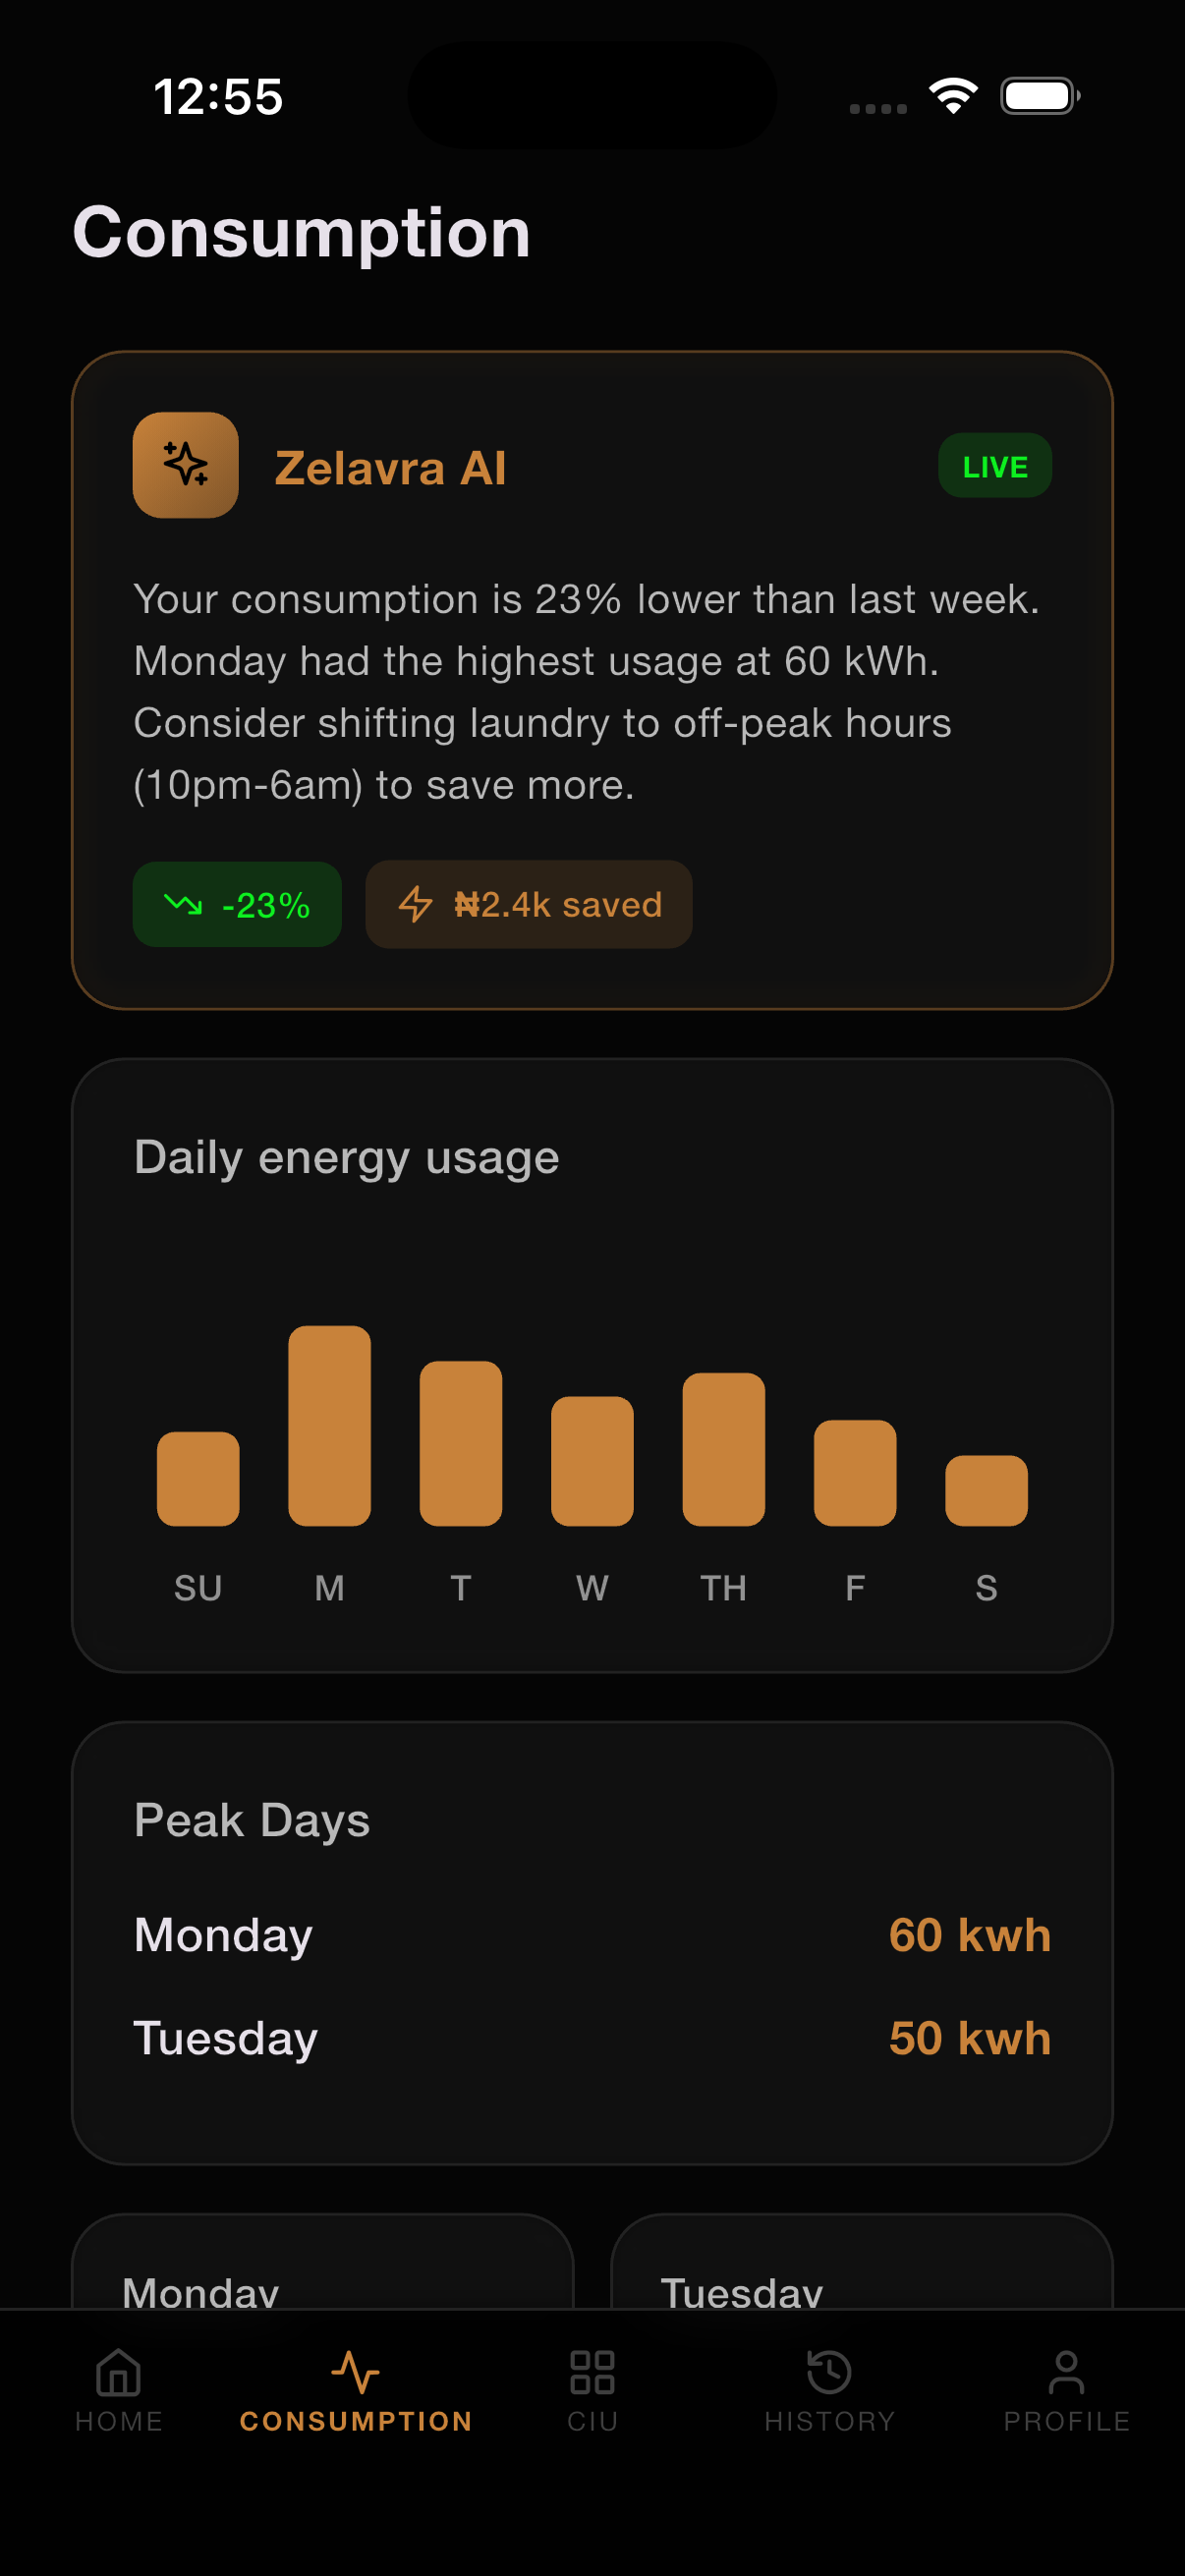
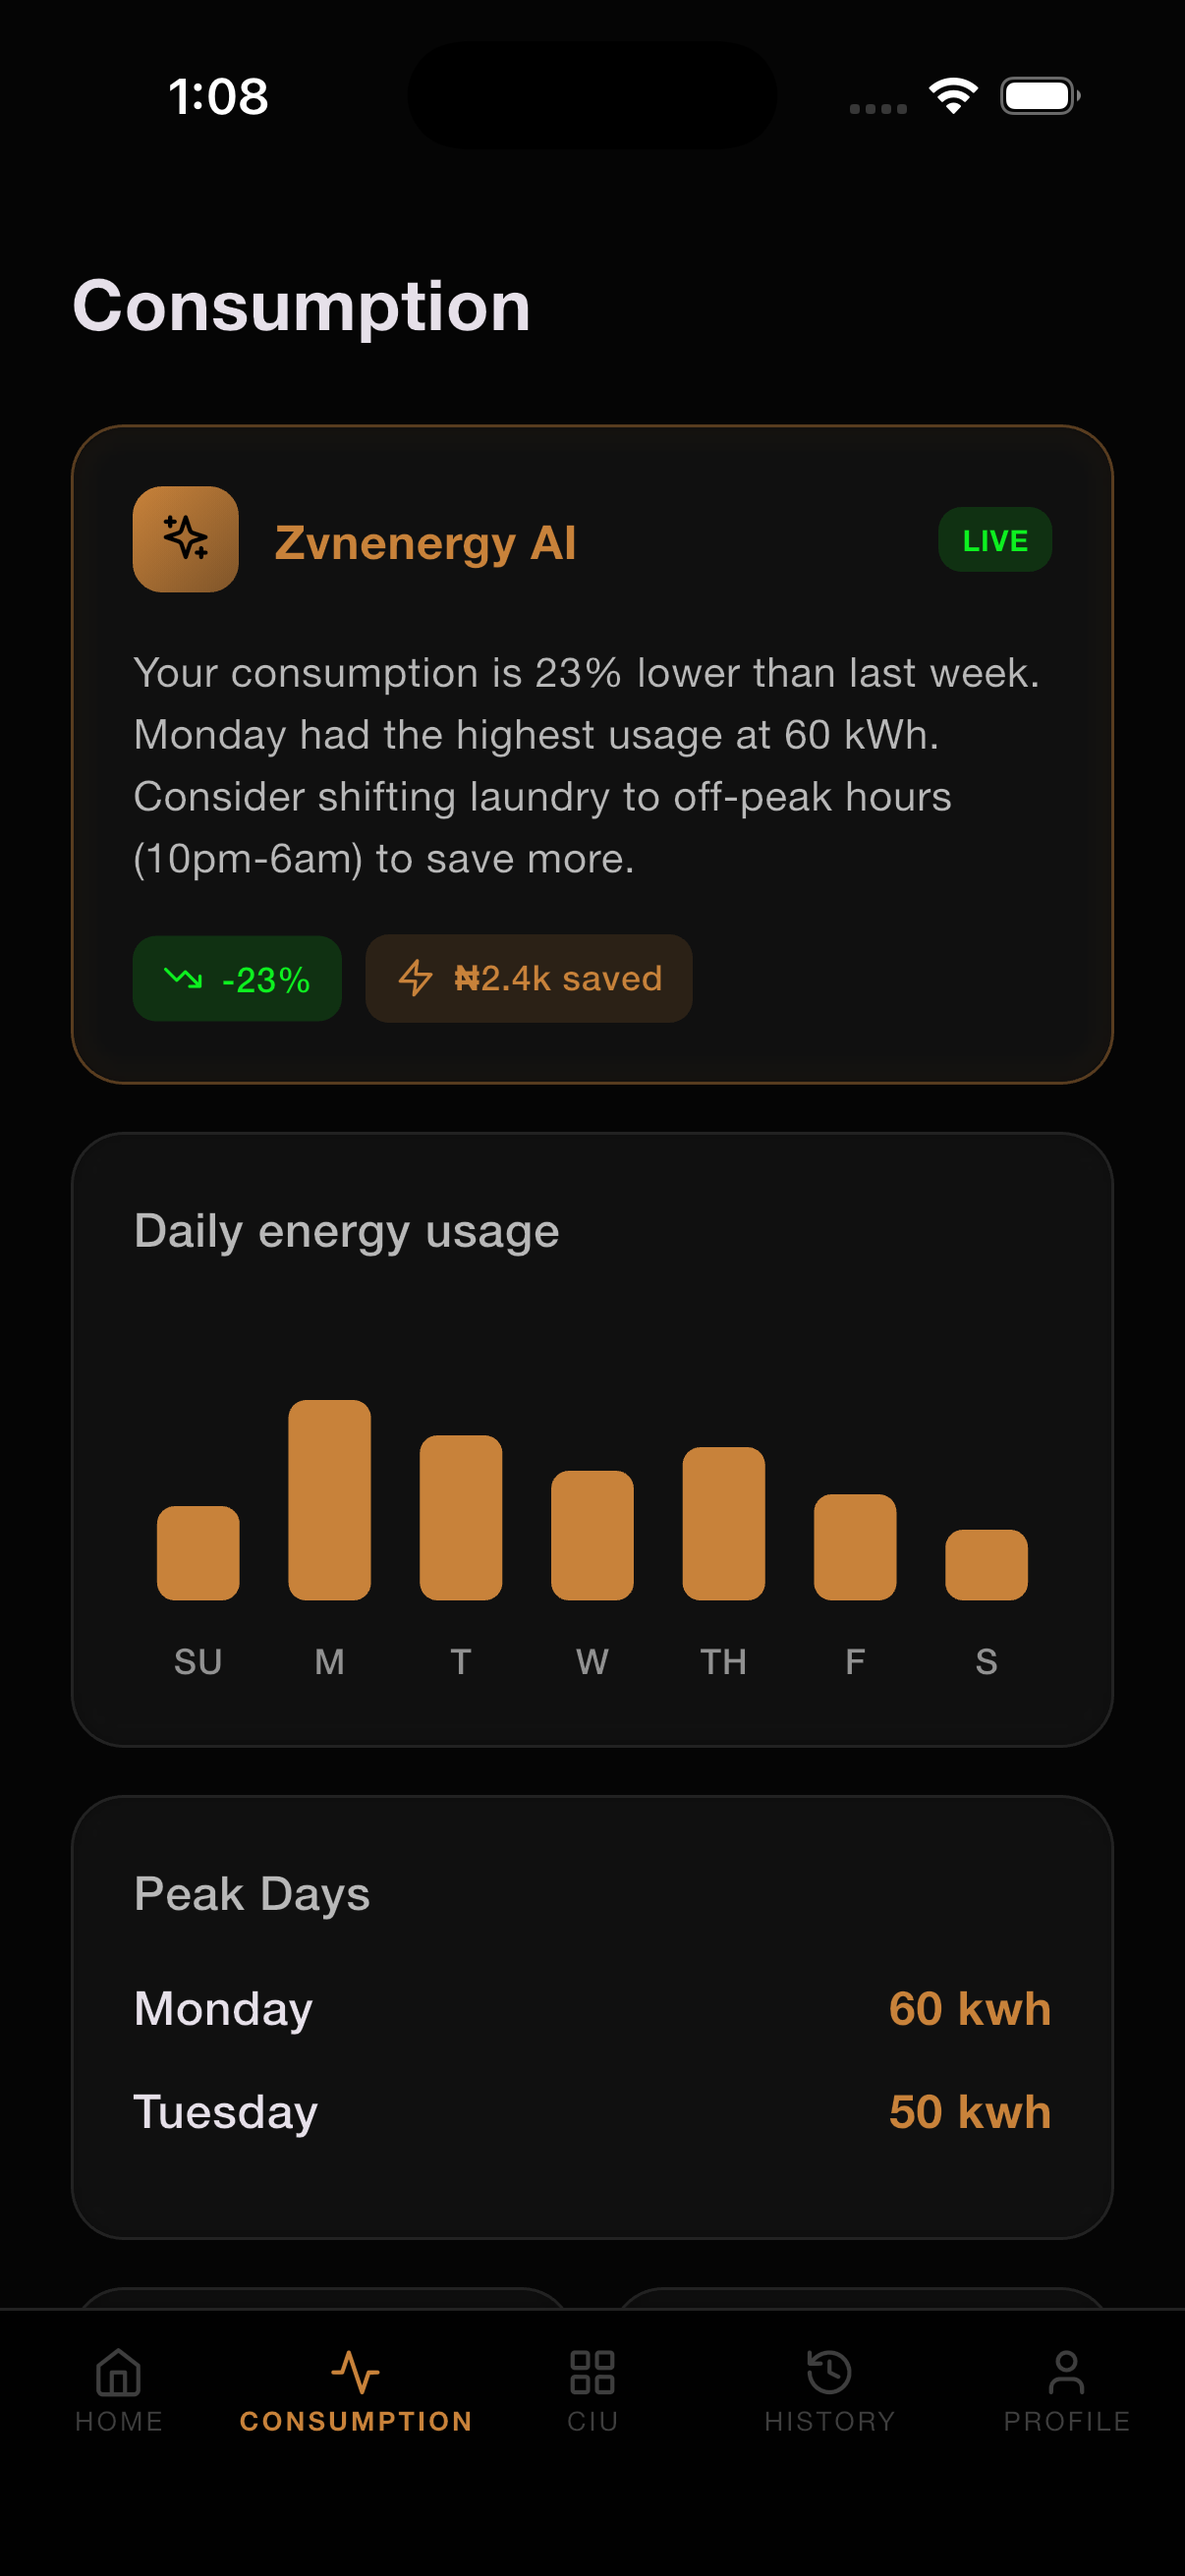
fix: v1

diff --git a/index.html b/index.html
@@ -2,27 +2,27 @@
 <html lang="en">
   <head>
     <meta charset="UTF-8" />
-    <link rel="icon" type="image/svg+xml" href="/zvn_logo.svg" />
+    <link rel="icon" type="image/svg+xml" href="/zvn.png" />
     <meta name="viewport" content="width=device-width, initial-scale=1.0" />
 
-    <title>zvnenergy</title>
+    <title>zievon energy</title>
 
     <!-- Structured Data for SEO: Organization Logo -->
     <script type="application/ld+json">
-    {
-      "@context": "https://schema.org",
-      "@type": "Organization",
-      "name": "zvnenergy",
-      "url": "https://zvnenergy.com/",
-      "logo": "https://zvnenergy.com/zvn_logo.svg"
-    }
+      {
+        "@context": "https://schema.org",
+        "@type": "Organization",
+        "name": "zievon energy",
+        "url": "https://zvnenergy.com/",
+        "logo": "https://zvnenergy.com/zvn.png"
+      }
     </script>
 
     <!-- Primary Meta Tags -->
-    <meta name="title" content="zvnenergy" />
+    <meta name="title" content="zievon energy" />
     <meta
       name="description"
-      content="Everything Energy. Everything Payments. One App. zvnenergy connects electricity distribution, smart metering, and digital payments for Nigerians."
+      content="Everything Energy. Everything Payments. One App. zievon energy connects electricity distribution, smart metering, and digital payments for Nigerians."
     />
     <meta
       name="keywords"
@@ -34,30 +34,28 @@
     <!-- Open Graph / Facebook -->
     <meta property="og:type" content="website" />
     <meta property="og:url" content="https://zvnenergy.com/" />
-    <meta property="og:title" content="zvnenergy" />
+    <meta property="og:title" content="zievon energy" />
     <meta
       property="og:description"
-      content="Everything Energy. Everything Payments. One App. zvnenergy connects electricity distribution, smart metering, and digital payments for Nigerians."
+      content="Everything Energy. Everything Payments. One App. zievon energy connects electricity distribution, smart metering, and digital payments for Nigerians."
     />
-    <meta property="og:image" content="https://zvnenergy.com/zvnenergylogo.png" />
-    <meta property="og:image:secure_url" content="https://zvnenergy.com/zvnenergylogo.png" />
-    <meta property="og:image:type" content="image/png" />
-    <meta property="og:image:width" content="1200" />
-    <meta property="og:image:height" content="630" />
-    <meta property="og:image:alt" content="zvnenergy Logo" />
-    <meta property="og:site_name" content="zvnenergy" />
+    <meta property="og:image" content="https://zvnenergy.com/zvn.png" />
+    <meta property="og:image:secure_url" content="https://zvnenergy.com/zvn.png" />
+    <meta property="og:image:type" content="image/svg+xml" />
+    <meta property="og:image:alt" content="zievon energy Logo" />
+    <meta property="og:site_name" content="zievon energy" />
     <meta property="og:locale" content="en_US" />
 
     <!-- Twitter -->
     <meta name="twitter:card" content="summary_large_image" />
     <meta name="twitter:url" content="https://zvnenergy.com/" />
-    <meta name="twitter:title" content="zvnenergy" />
+    <meta name="twitter:title" content="zievon energy" />
     <meta
       name="twitter:description"
-      content="Everything Energy. Everything Payments. One App. zvnenergy connects electricity distribution, smart metering, and digital payments for Nigerians."
+      content="Everything Energy. Everything Payments. One App. zievon energy connects electricity distribution, smart metering, and digital payments for Nigerians."
     />
-    <meta name="twitter:image" content="https://zvnenergy.com/zvnenergylogo.png" />
-    <meta name="twitter:image:alt" content="zvnenergy Logo" />
+    <meta name="twitter:image" content="https://zvnenergy.com/zvn.png" />
+    <meta name="twitter:image:alt" content="zievon energy Logo" />
 
     <!-- Additional Meta Tags -->
     <meta name="theme-color" content="#c8823a" />
@@ -68,6 +66,10 @@
     <link rel="preconnect" href="https://fonts.gstatic.com" crossorigin />
     <link
       href="https://fonts.googleapis.com/css2?family=Inter:wght@100..900&display=swap"
+      rel="stylesheet"
+    />
+    <link
+      href="https://fonts.googleapis.com/css2?family=Space+Grotesk:wght@400;500;600;700&display=swap"
       rel="stylesheet"
     />
     <link rel="preconnect" href="https://cdn.jsdelivr.net" />

diff --git a/src/views/HomeView.vue b/src/views/HomeView.vue
@@ -20,7 +20,7 @@ const reviews = [
     name: 'Sarah Alabi',
     role: 'Business Owner',
     content:
-      'zvnenergy AI helped me identify that my industrial fridge was consuming 30% more power than it should. Saved me thousands in the first month.',
+      'zievon energy AI helped me identify that my industrial fridge was consuming 30% more power than it should. Saved me thousands in the first month.',
     avatar: 'SA',
   },
   {
@@ -42,11 +42,11 @@ const reviews = [
 const faqs = [
   {
     q: 'Is the app free to use?',
-    a: 'Yes, the zvnenergy app is free to download and use for monitoring. Premium features like zvnenergy AI analytics are included with our hardware bundles.',
+    a: 'Yes, the zievon energy app is free to download and use for monitoring. Premium features like zievon energy AI analytics are included with our hardware bundles.',
   },
   {
     q: 'Can I use it with any meter?',
-    a: 'zvnenergy supports most modern prepaid meters. For full automation and remote control, we recommend the zvnenergy Smart Meter hardware.',
+    a: 'zievon energy supports most modern prepaid meters. For full automation and remote control, we recommend the zievon energy Smart Meter hardware.',
   },
   {
     q: 'How secure are my payments?',
@@ -143,7 +143,7 @@ const faqs = [
             Everything at a Glance.
           </h2>
           <p class="text-neutral-400 text-lg font-light leading-relaxed">
-            The zvnenergy Dashboard provides a unified view of your entire energy ecosystem. Monitor
+            The zievon energy Dashboard provides a unified view of your entire energy ecosystem. Monitor
             your kWh balance in real-time, track historical consumption patterns, and manage
             multiple meters from a single, intuitive interface.
           </p>
@@ -164,7 +164,7 @@ const faqs = [
             <img
               src="/home1.png"
               class="w-full h-full object-cover"
-              alt="zvnenergy Dashboard Overview"
+              alt="zievon energy Dashboard Overview"
             />
           </div>
         </div>
@@ -191,8 +191,8 @@ const faqs = [
           </h2>
           <p class="text-neutral-400 text-lg font-light leading-relaxed">
             Adding a new meter to your account is as simple as scanning a QR code or entering your
-            meter number. Whether it's your main residence, office, or a rental property, zvnenergy
-            organizes them into a single manageable list.
+            meter number. Whether it's your main residence, office, or a rental property, zievon
+            energy organizes them into a single manageable list.
           </p>
           <ul class="flex flex-col gap-4 mt-2">
             <li class="flex items-center gap-3 text-neutral-300 text-sm">
@@ -207,7 +207,7 @@ const faqs = [
         </div>
       </section>
 
-      <!-- User Journey: Section 3 - Calculator -->
+      <!-- User Journey: Section 3 - Intelligent Monitoring.Calculator -->
       <section
         class="w-full max-w-7xl px-6 mb-48 grid grid-cols-1 md:grid-cols-2 gap-16 items-center"
       >
@@ -262,7 +262,7 @@ const faqs = [
               <img
                 src="/zvnenergy_share.png"
                 class="w-full h-full object-cover"
-                alt="zvnenergy Share confirmation"
+                alt="zievon energy Share confirmation"
               />
             </div>
           </div>
@@ -275,7 +275,7 @@ const faqs = [
             Energy for Everyone.
           </h2>
           <p class="text-neutral-400 text-lg font-light leading-relaxed">
-            zvnenergy Share allows you to distribute energy units across your family, business, or
+            zievon energy Share allows you to distribute energy units across your family, business, or
             rental meters in seconds. Transferring units is as simple and secure as sending money.
           </p>
           <div class="flex flex-col gap-4">
@@ -366,7 +366,7 @@ const faqs = [
             <img
               src="/consumption.png"
               class="w-full h-full object-cover"
-              alt="zvnenergy AI Consumption Monitoring"
+              alt="zievon energy AI Consumption Monitoring"
             />
           </div>
         </div>
@@ -378,7 +378,7 @@ const faqs = [
             Intelligent Monitoring.
           </h2>
           <p class="text-neutral-400 text-lg font-light leading-relaxed">
-            Introducing our first proprietary model: <strong>zvnenergy AI</strong>. Specifically
+            Introducing our first proprietary model: <strong>zievon energy AI</strong>. Specifically
             engineered to monitor your electricity consumption, it analyzes your usage patterns to
             help you optimize energy costs and detect anomalies before they become expensive
             problems.
@@ -401,7 +401,7 @@ const faqs = [
             >User Stories</span
           >
           <h2 class="text-4xl md:text-5xl font-medium text-white tracking-tight">
-            Voices of zvnenergy.
+            Voices of zievon energy.
           </h2>
         </div>
         <div class="grid grid-cols-1 md:grid-cols-2 lg:grid-cols-4 gap-6">
@@ -463,7 +463,7 @@ const faqs = [
               We're here to help.
             </h2>
             <p class="text-neutral-400 text-lg font-light leading-relaxed max-w-md">
-              Have questions about your meter, the app, or zvnenergy AI? Our support team is
+              Have questions about your meter, the app, or zievon energy AI? Our support team is
               available 24/7 to ensure your power remains uninterrupted.
             </p>
             <div class="flex flex-col gap-6 mt-4">

diff --git a/src/components/layout/Navigation.vue b/src/components/layout/Navigation.vue
@@ -27,15 +27,26 @@ const scrollToSection = (id: string) => {
     <a
       href="#home"
       @click.prevent="scrollToSection('#home')"
-      class="flex items-center z-[70] group relative"
+      class="flex items-center z-[70] group relative gap-3"
     >
-      <img
-        src="/zvn_logo.svg"
-        alt="zvnenergy logo"
-        class="h-8 w-auto mr-2"
-        style="display:inline-block;vertical-align:middle;"
-      />
-      <span class="text-lg font-bold text-white tracking-tight group-hover:text-neutral-400 transition-colors ml-2">zvnenergy</span>
+      <div class="flex items-center gap-3">
+        <img
+          src="/zvn.png"
+          alt="zievon energy logo"
+          class="h-12 md:h-14 w-auto object-contain"
+          style="display: inline-block; vertical-align: middle"
+        />
+        <div class="flex flex-col leading-none">
+          <span
+            class="text-[1.3rem] md:text-[1.5rem] font-extrabold tracking-[0.35em] text-white font-brand"
+            >ZVN</span
+          >
+          <span
+            class="text-[0.65rem] md:text-[0.7rem] font-semibold tracking-[0.3em] text-neutral-400 font-brand word-spaced"
+            >ZIEVON ENERGY</span
+          >
+        </div>
+      </div>
     </a>
 
     <!-- Centered Links (Desktop) -->

diff --git a/src/components/layout/Footer.vue b/src/components/layout/Footer.vue
@@ -11,8 +11,25 @@ const scrollToSection = (id: string) => {
   <footer class="w-full pt-24 pb-12 flex flex-col gap-16 border-t border-white/5 mt-24">
     <div class="grid grid-cols-2 md:grid-cols-4 lg:grid-cols-5 gap-12 px-4">
       <!-- Brand -->
-      <div class="col-span-2 flex flex-col gap-6">
-        <span class="text-xl font-bold text-white tracking-tight">zvnenergy</span>
+      <div class="col-span-2 flex flex-col items-start gap-6">
+        <div class="flex flex-col leading-none gap-0">
+          <div class="flex items-center gap-0">
+            <span
+              class="text-[1.4rem] md:text-[1.6rem] font-extrabold tracking-[0.35em] text-white font-brand"
+              >ZVN</span
+            >
+            <img
+              src="/zvn.png"
+              alt="zievon energy logo"
+              class="h-16 md:h-20 w-auto object-contain block -ml-1"
+              style="display: inline-block; vertical-align: middle"
+            />
+          </div>
+          <span
+            class="text-[0.7rem] md:text-[0.75rem] font-semibold tracking-[0.3em] text-neutral-400 font-brand word-spaced -mt-1"
+            >ZIEVON ENERGY</span
+          >
+        </div>
         <p class="text-sm text-neutral-500 font-light max-w-xs leading-relaxed">
           The next generation of energy management. High-precision hardware and intelligent software
           unified into a single ecosystem.
@@ -44,7 +61,7 @@ const scrollToSection = (id: string) => {
               @click="scrollToSection('zvnenergy-ai')"
               class="hover:text-brand-500 transition-colors text-left"
             >
-              zvnenergy AI
+              zievon energy AI
             </button>
           </li>
         </ul>
@@ -96,7 +113,7 @@ const scrollToSection = (id: string) => {
       class="flex flex-col md:flex-row justify-between items-center gap-8 pt-12 border-t border-white/5 px-4 text-[0.65rem] text-neutral-600 font-medium uppercase tracking-[0.1em]"
     >
       <div class="flex gap-8">
-        <span>© 2026 zvnenergy Inc.</span>
+        <span>© 2026 zievon energy Inc.</span>
         <span>All Rights Reserved.</span>
       </div>
       <div class="flex gap-8">

diff --git a/src/components/sections/ServicesGrid.vue b/src/components/sections/ServicesGrid.vue
@@ -14,7 +14,7 @@
     </div>
 
     <div class="grid grid-cols-1 md:grid-cols-2 gap-6">
-      <!-- Card 1: zvnenergy Core -->
+      <!-- Card 1: zievon energy Core -->
       <div
         class="group relative bg-white/5 border border-white/5 rounded-3xl p-8 overflow-hidden hover:bg-white/10 transition-all duration-700"
       >
@@ -41,7 +41,7 @@
             </svg>
           </div>
           <h3 class="text-2xl font-heading font-bold text-white mb-3 tracking-tight">
-            zvnenergy Core
+            zievon energy Core
           </h3>
           <p class="text-sm text-neutral-400 leading-relaxed font-light">
             Buy electricity from all 12 Nigerian DISCOs. Instant token delivery and direct
@@ -50,7 +50,7 @@
         </div>
       </div>
 
-      <!-- Card 2: zvnenergy Share -->
+      <!-- Card 2: zievon energy Share -->
       <div
         class="group relative bg-white/5 border border-white/5 rounded-3xl p-8 overflow-hidden hover:bg-white/10 transition-all duration-700"
       >
@@ -81,7 +81,7 @@
             </svg>
           </div>
           <h3 class="text-2xl font-heading font-bold text-white mb-3 tracking-tight">
-            zvnenergy Share
+            zievon energy Share
           </h3>
           <p class="text-sm text-neutral-400 leading-relaxed font-light">
             Distribute units across multiple meters, set limits, and track usage from one elegant
@@ -90,7 +90,7 @@
         </div>
       </div>
 
-      <!-- Card 3: zvnenergy Pay (Large) -->
+      <!-- Card 3: zievon energy Pay (Large) -->
       <div
         class="group relative bg-white/5 border border-white/5 rounded-3xl p-8 overflow-hidden hover:bg-white/10 transition-all duration-700 md:col-span-2"
       >
@@ -119,7 +119,7 @@
               </svg>
             </div>
             <h3 class="text-2xl font-heading font-bold text-white mb-3 tracking-tight">
-              zvnenergy Pay
+              zievon energy Pay
             </h3>
             <p class="text-sm text-neutral-400 leading-relaxed font-light">
               Send money, pay bills, and manage every transaction inside your energy app. A complete

diff --git a/src/style.css b/src/style.css
@@ -20,6 +20,14 @@
 }
 
 @layer utilities {
+    .font-brand {
+        font-family: 'Space Grotesk', 'Inter', sans-serif;
+    }
+
+    .word-spaced {
+        word-spacing: 0.35em;
+    }
+
     .glass-card {
         background: rgba(255, 255, 255, 0.03);
         backdrop-filter: blur(20px);

diff --git a/src/components/sections/HeroSection.vue b/src/components/sections/HeroSection.vue
@@ -61,7 +61,7 @@ onMounted(() => {
         class="mt-4 max-w-3xl text-base md:text-xl text-neutral-400 leading-relaxed tracking-wide font-light animate-fade-in"
         style="animation-delay: 1s; opacity: 0; animation-fill-mode: forwards"
       >
-        From smart solar hardware to unified digital payments. zvnenergy is building the complete
+        From smart solar hardware to unified digital payments. zievon energy is building the complete
         ecosystem for sustainable power and financial freedom.
       </p>
 

diff --git a/src/components/sections/WaitlistForm.vue b/src/components/sections/WaitlistForm.vue
@@ -12,7 +12,7 @@
           >Early Access</span
         >
         <h3 class="text-3xl font-heading font-medium text-white tracking-tight">
-          Join the zvnenergy Ecosystem.
+          Join the zievon energy Ecosystem.
         </h3>
         <p class="text-sm text-neutral-400 font-light">
           Be the first to experience the seamless integration of energy and finance.